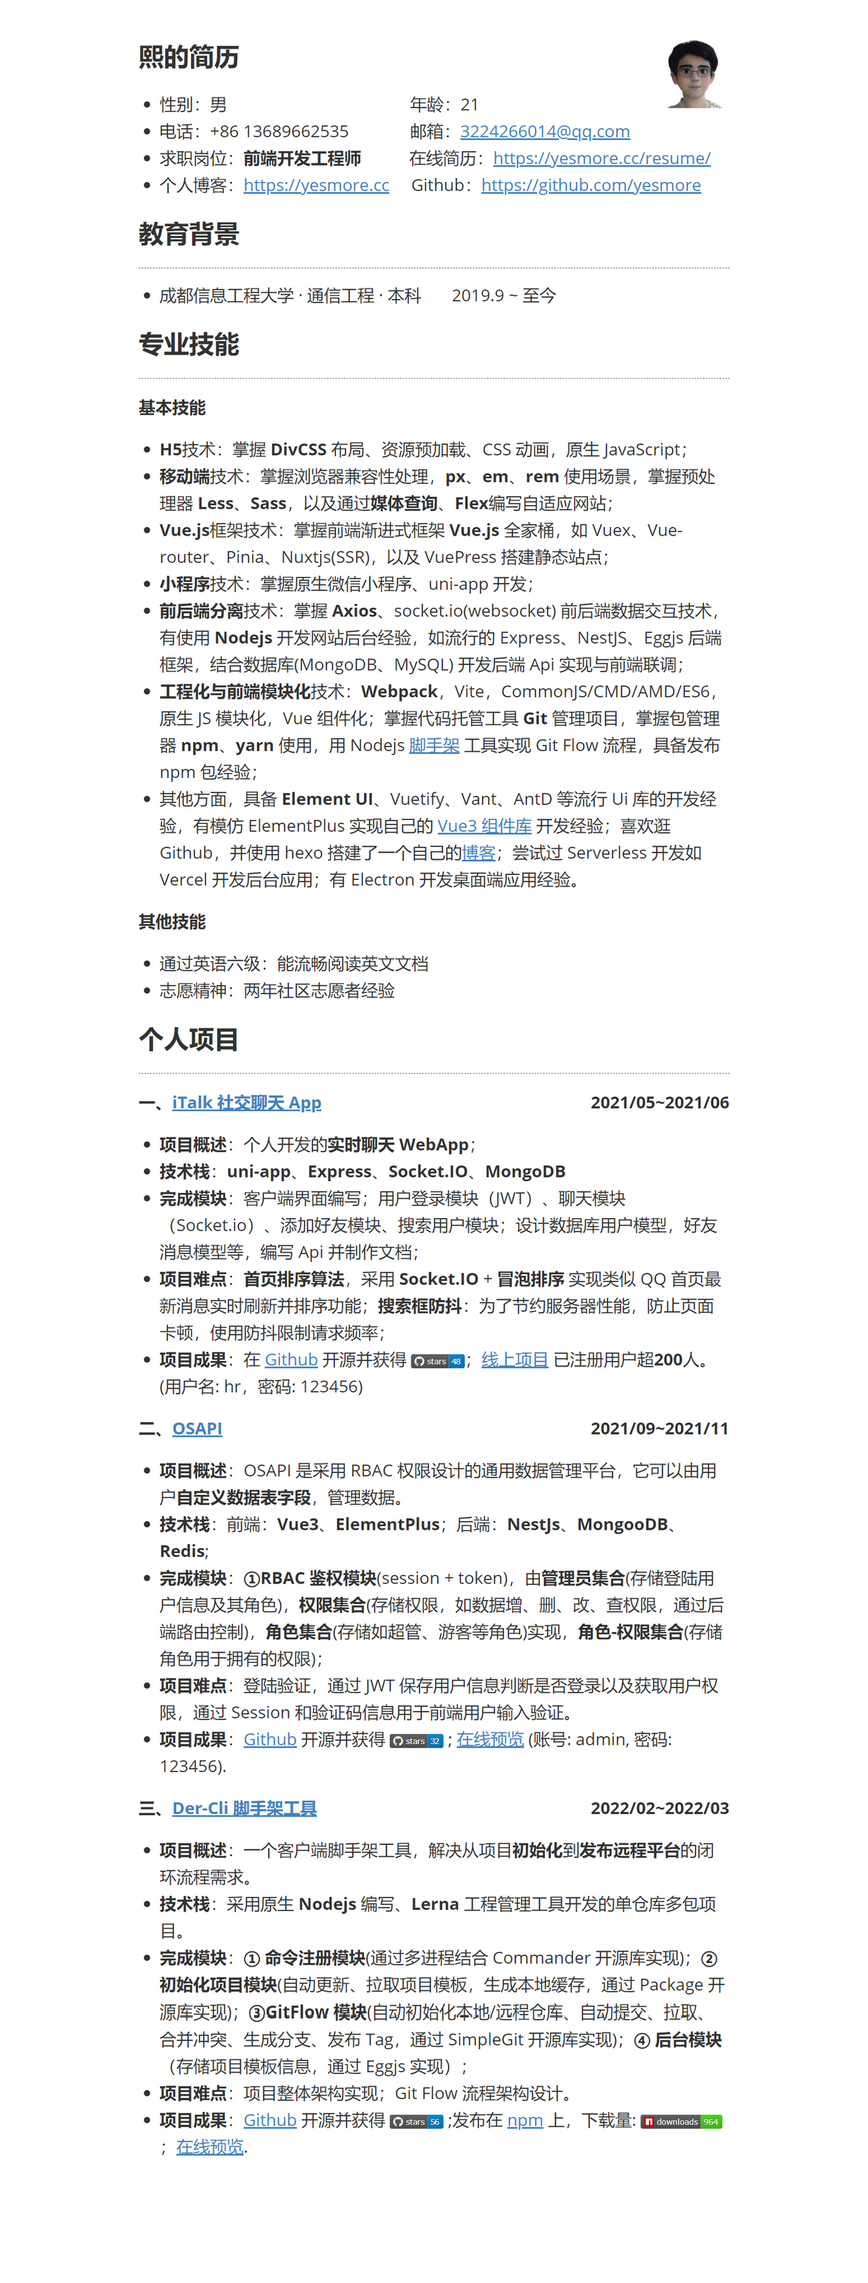
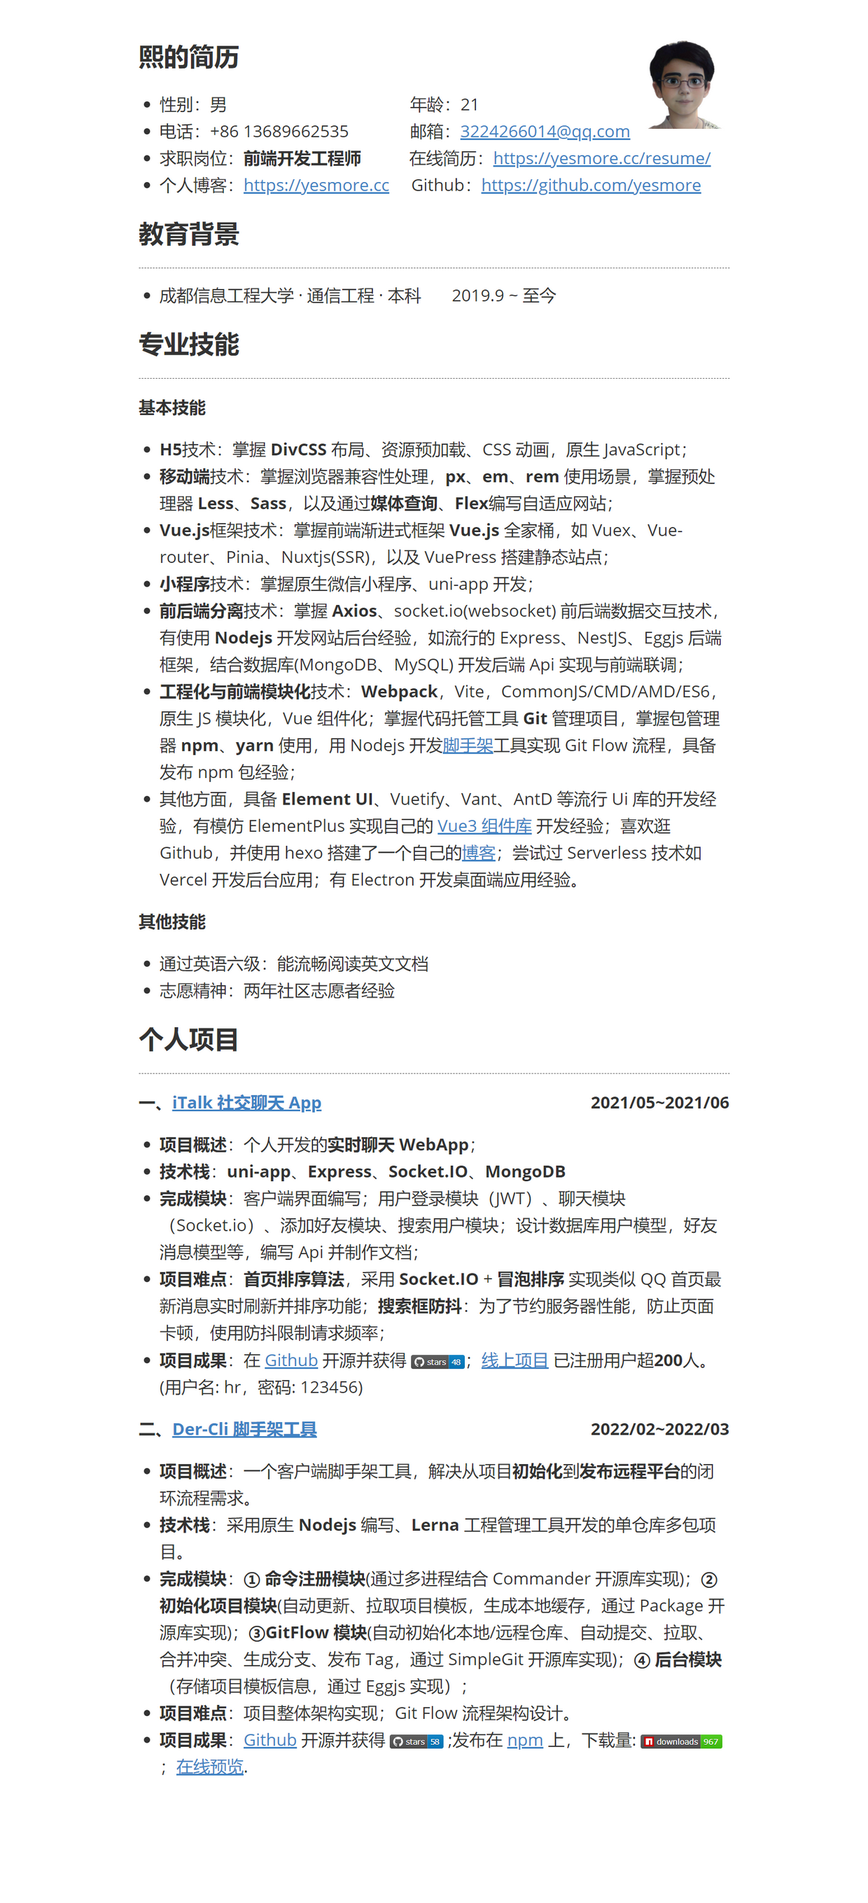
✨feat: 12

Changed region(s): [[0.1532, 0.0, 0.8274, 0.9581], [0.4597, 0.0, 0.8274, 0.1545]]

diff --git a/index.html b/index.html
@@ -593,6 +593,6 @@ header, .context-menu, .megamenu-content, footer{
 </style><title>index</title>
 </head>
 <body class='typora-export os-windows'><div class='typora-export-content'>
-<div id='write'  class=''><h3 id='熙的简历'><span>熙的简历</span><img width='100' style='float:right;' src='https://cdn.jsdelivr.net/gh/yesmore/img/img/avatar.png'></h3><ul><li><span>性别：男                                          年龄：21</span></li><li><span>电话：+86 13689662535              邮箱：</span><a href='mailto:3224266014@qq.com' target='_blank' class='url'>3224266014@qq.com</a></li><li><span>求职岗位：</span><strong><span>前端开发工程师</span></strong><span>           在线简历：</span><a href='https://yesmore.cc/resume/' target='_blank' class='url'>https://yesmore.cc/resume/</a></li><li><span>个人博客：</span><a href='https://yesmore.cc' target='_blank' class='url'>https://yesmore.cc</a><span>     Github：</span><a href='https://github.com/yesmore' target='_blank' class='url'>https://github.com/yesmore</a></li></ul><h3 id='教育背景'><span>教育背景</span></h3><div style="border-bottom: 1px dashed #666666"></div><ul><li><span>成都信息工程大学 · 通信工程 · 本科       2019.9 ~ 至今</span></li></ul><h3 id='专业技能'><span>专业技能</span></h3><div style="border-bottom: 1px dashed #666666"></div><h5 id='基本技能'><span>基本技能</span></h5><ul><li><strong><span>H5</span></strong><span>技术：掌握 </span><strong><span>DivCSS</span></strong><span> 布局、资源预加载、CSS 动画，原生 JavaScript；</span></li><li><strong><span>移动端</span></strong><span>技术：掌握浏览器兼容性处理，</span><strong><span>px</span></strong><span>、</span><strong><span>em</span></strong><span>、</span><strong><span>rem</span></strong><span> 使用场景，掌握预处理器 </span><strong><span>Less</span></strong><span>、</span><strong><span>Sass</span></strong><span>，以及通过</span><strong><span>媒体查询</span></strong><span>、</span><strong><span>Flex</span></strong><span>编写自适应网站；</span></li><li><strong><span>Vue.js</span></strong><span>框架技术：掌握前端渐进式框架 </span><strong><span>Vue.js</span></strong><span> 全家桶，如 Vuex、Vue-router、Pinia、Nuxtjs(SSR)，以及 VuePress 搭建静态站点；</span></li><li><strong><span>小程序</span></strong><span>技术：掌握原生微信小程序、uni-app 开发；</span></li><li><strong><span>前后端分离</span></strong><span>技术：掌握 </span><strong><span>Axios</span></strong><span>、socket.io(websocket) 前后端数据交互技术，有使用 </span><strong><span>Nodejs</span></strong><span> 开发网站后台经验，如流行的 Express、NestJS、Eggjs 后端框架，结合数据库(MongoDB、MySQL) 开发后端 Api 实现与前端联调；</span></li><li><strong><span>工程化与前端模块化</span></strong><span>技术：</span><strong><span>Webpack</span></strong><span>，Vite，CommonJS/CMD/AMD/ES6，原生 JS 模块化，Vue 组件化；掌握代码托管工具 </span><strong><span>Git</span></strong><span> 管理项目，掌握包管理器 </span><strong><span>npm</span></strong><span>、</span><strong><span>yarn</span></strong><span> 使用，用 Nodejs </span><a href='https://github.com/der-cli/der-cli'><span>脚手架</span></a><span> 工具实现 Git Flow 流程，具备发布 npm 包经验；</span></li><li><span>其他方面，具备 </span><strong><span>Element UI</span></strong><span>、Vuetify、Vant、AntD 等流行 Ui 库的开发经验，有模仿 ElementPlus 实现自己的 </span><a href='https://yesmore.cc/Different-UI/'><span>Vue3 组件库</span></a><span> 开发经验；喜欢逛 Github，并使用 hexo 搭建了一个自己的</span><a href='https://yesmore.cc/'><span>博客</span></a><span>；尝试过 Serverless 开发如 Vercel 开发后台应用；有 Electron 开发桌面端应用经验。</span></li></ul><h5 id='其他技能'><span>其他技能</span></h5><ul><li><span>通过英语六级：能流畅阅读英文文档</span></li><li><span>志愿精神：两年社区志愿者经验</span></li></ul><h3 id='个人项目'><span>个人项目</span></h3><div style="border-bottom: 1px dashed #666666"></div><h5 id='一italk-社交聊天-app\n202105202106'><span>一、</span><a href='https://github.com/yesmore/italk-uniapp'><span>iTalk 社交聊天 App</span></a><span style='float:right'><span>2021/05~2021/06</span></span></h5><ul><li><strong><span>项目概述</span></strong><span>：个人开发的</span><strong><span>实时聊天 WebApp</span></strong><span>；</span></li><li><strong><span>技术栈</span></strong><span>：</span><strong><span>uni-app</span></strong><span>、</span><strong><span>Express</span></strong><span>、</span><strong><span>Socket.IO</span></strong><span>、</span><strong><span>MongoDB</span></strong></li><li><strong><span>完成模块</span></strong><span>：客户端界面编写；用户登录模块（JWT）、聊天模块（Socket.io）、添加好友模块、搜索用户模块；设计数据库用户模型，好友消息模型等，编写 Api 并制作文档；</span></li><li><strong><span>项目难点</span></strong><span>：</span><strong><span>首页排序算法</span></strong><span>，采用 </span><strong><span>Socket.IO</span></strong><span> + </span><strong><span>冒泡排序</span></strong><span> 实现类似 QQ 首页最新消息实时刷新并排序功能；</span><strong><span>搜索框防抖</span></strong><span>：为了节约服务器性能，防止页面卡顿，使用防抖限制请求频率；</span></li><li><strong><span>项目成果</span></strong><span>：在 </span><a href='https://github.com/yesmore/italk-uniapp'><span>Github</span></a><span> 开源并获得 </span><img src="https://img.shields.io/github/stars/yesmore/italk-uniapp.svg?logo=github" alt="star"/><span>；</span><a href='http://italk.aoau.top/'><span>线上项目</span></a><span> 已注册用户超</span><strong><span>200</span></strong><span>人。(用户名: hr，密码: 123456)</span></li></ul><h5 id='二osapi-\n202109202111'><span>二、</span><a href='https://github.com/yesmore/OSAPI'><span>OSAPI</span></a><span> </span><span style='float:right'><span>2021/09~2021/11</span></span></h5><ul><li><strong><span>项目概述</span></strong><span>：OSAPI 是采用 RBAC 权限设计的通用数据管理平台，它可以由用户</span><strong><span>自定义数据表字段</span></strong><span>，管理数据。</span></li><li><strong><span>技术栈</span></strong><span>：前端：</span><strong><span>Vue3</span></strong><span>、</span><strong><span>ElementPlus</span></strong><span>；后端：</span><strong><span>NestJs</span></strong><span>、</span><strong><span>MongooDB</span></strong><span>、</span><strong><span>Redis</span></strong><span>;</span></li><li><strong><span>完成模块</span></strong><span>：</span><strong><span>①RBAC 鉴权模块</span></strong><span>(session + token)，由</span><strong><span>管理员集合</span></strong><span>(存储登陆用户信息及其角色)，</span><strong><span>权限集合</span></strong><span>(存储权限，如数据增、删、改、查权限，通过后端路由控制)，</span><strong><span>角色集合</span></strong><span>(存储如超管、游客等角色)实现，</span><strong><span>角色-权限集合</span></strong><span>(存储角色用于拥有的权限)；</span></li><li><strong><span>项目难点</span></strong><span>：登陆验证，通过 JWT 保存用户信息判断是否登录以及获取用户权限，通过 Session 和验证码信息用于前端用户输入验证。</span></li><li><strong><span>项目成果</span></strong><span>：</span><a href='https://github.com/yesmore/OSAPI'><span>Github</span></a><span> 开源并获得 </span><img src="https://img.shields.io/github/stars/yesmore/OSAPI.svg?logo=github" alt="star"/><span> ; </span><a href='http://osapi.aoau.top/'><span>在线预览</span></a><span> (账号: admin, 密码: 123456).</span></li></ul><h5 id='三der-cli-脚手架工具-\n202202202203'><span>三、</span><a href='https://der-cli.vercel.app/'><span>Der-Cli 脚手架工具</span></a><span> </span><span style='float:right'><span>2022/02~2022/03</span></span></h5><ul><li><strong><span>项目概述</span></strong><span>：一个客户端脚手架工具，解决从项目</span><strong><span>初始化</span></strong><span>到</span><strong><span>发布远程平台</span></strong><span>的闭环流程需求。</span></li><li><strong><span>技术栈</span></strong><span>：采用原生 </span><strong><span>Nodejs</span></strong><span> 编写、</span><strong><span>Lerna</span></strong><span> 工程管理工具开发的单仓库多包项目。</span></li><li><strong><span>完成模块</span></strong><span>：</span><strong><span>① 命令注册模块</span></strong><span>(通过多进程结合 Commander 开源库实现)；</span><strong><span>② 初始化项目模块</span></strong><span>(自动更新、拉取项目模板，生成本地缓存，通过 Package 开源库实现)；</span><strong><span>③GitFlow 模块</span></strong><span>(自动初始化本地/远程仓库、自动提交、拉取、合并冲突、生成分支、发布 Tag，通过 SimpleGit 开源库实现)；</span><strong><span>④ 后台模块</span></strong><span>（存储项目模板信息，通过 Eggjs 实现）；</span></li><li><strong><span>项目难点</span></strong><span>：项目整体架构实现；Git Flow 流程架构设计。</span></li><li><strong><span>项目成果</span></strong><span>：</span><a href='https://github.com/der-cli/der-cli'><span>Github</span></a><span> 开源并获得 </span><img src="https://img.shields.io/github/stars/der-cli/der-cli.svg?logo=github" alt="star"/><span> ;发布在 </span><a href='https://www.npmjs.com/package/@der-cli/core'><span>npm</span></a><span> 上，下载量: </span><img src="https://img.shields.io/npm/dt/@der-cli/core?logo=npm"><span>；</span><a href='https://der-cli.vercel.app/'><span>在线预览</span></a><span>.</span></li></ul><p>&nbsp;</p></div></div>
+<div id='write'  class=''><h3 id='熙的简历'><span>熙的简历</span><img width='130' style='float:right;' src='https://cdn.jsdelivr.net/gh/yesmore/img/img/avatar.png'></h3><ul><li><span>性别：男                                          年龄：21</span></li><li><span>电话：+86 13689662535              邮箱：</span><a href='mailto:3224266014@qq.com' target='_blank' class='url'>3224266014@qq.com</a></li><li><span>求职岗位：</span><strong><span>前端开发工程师</span></strong><span>           在线简历：</span><a href='https://yesmore.cc/resume/' target='_blank' class='url'>https://yesmore.cc/resume/</a></li><li><span>个人博客：</span><a href='https://yesmore.cc' target='_blank' class='url'>https://yesmore.cc</a><span>     Github：</span><a href='https://github.com/yesmore' target='_blank' class='url'>https://github.com/yesmore</a></li></ul><h3 id='教育背景'><span>教育背景</span></h3><div style="border-bottom: 1px dashed #666666"></div><ul><li><span>成都信息工程大学 · 通信工程 · 本科       2019.9 ~ 至今</span></li></ul><h3 id='专业技能'><span>专业技能</span></h3><div style="border-bottom: 1px dashed #666666"></div><h5 id='基本技能'><span>基本技能</span></h5><ul><li><strong><span>H5</span></strong><span>技术：掌握 </span><strong><span>DivCSS</span></strong><span> 布局、资源预加载、CSS 动画，原生 JavaScript；</span></li><li><strong><span>移动端</span></strong><span>技术：掌握浏览器兼容性处理，</span><strong><span>px</span></strong><span>、</span><strong><span>em</span></strong><span>、</span><strong><span>rem</span></strong><span> 使用场景，掌握预处理器 </span><strong><span>Less</span></strong><span>、</span><strong><span>Sass</span></strong><span>，以及通过</span><strong><span>媒体查询</span></strong><span>、</span><strong><span>Flex</span></strong><span>编写自适应网站；</span></li><li><strong><span>Vue.js</span></strong><span>框架技术：掌握前端渐进式框架 </span><strong><span>Vue.js</span></strong><span> 全家桶，如 Vuex、Vue-router、Pinia、Nuxtjs(SSR)，以及 VuePress 搭建静态站点；</span></li><li><strong><span>小程序</span></strong><span>技术：掌握原生微信小程序、uni-app 开发；</span></li><li><strong><span>前后端分离</span></strong><span>技术：掌握 </span><strong><span>Axios</span></strong><span>、socket.io(websocket) 前后端数据交互技术，有使用 </span><strong><span>Nodejs</span></strong><span> 开发网站后台经验，如流行的 Express、NestJS、Eggjs 后端框架，结合数据库(MongoDB、MySQL) 开发后端 Api 实现与前端联调；</span></li><li><strong><span>工程化与前端模块化</span></strong><span>技术：</span><strong><span>Webpack</span></strong><span>，Vite，CommonJS/CMD/AMD/ES6，原生 JS 模块化，Vue 组件化；掌握代码托管工具 </span><strong><span>Git</span></strong><span> 管理项目，掌握包管理器 </span><strong><span>npm</span></strong><span>、</span><strong><span>yarn</span></strong><span> 使用，用 Nodejs 开发</span><a href='https://github.com/der-cli/der-cli'><span>脚手架</span></a><span>工具实现 Git Flow 流程，具备发布 npm 包经验；</span></li><li><span>其他方面，具备 </span><strong><span>Element UI</span></strong><span>、Vuetify、Vant、AntD 等流行 Ui 库的开发经验，有模仿 ElementPlus 实现自己的 </span><a href='https://yesmore.cc/Different-UI/'><span>Vue3 组件库</span></a><span> 开发经验；喜欢逛 Github，并使用 hexo 搭建了一个自己的</span><a href='https://yesmore.cc/'><span>博客</span></a><span>；尝试过 Serverless 技术如 Vercel 开发后台应用；有 Electron 开发桌面端应用经验。</span></li></ul><h5 id='其他技能'><span>其他技能</span></h5><ul><li><span>通过英语六级：能流畅阅读英文文档</span></li><li><span>志愿精神：两年社区志愿者经验</span></li></ul><h3 id='个人项目'><span>个人项目</span></h3><div style="border-bottom: 1px dashed #666666"></div><h5 id='一italk-社交聊天-app\n202105202106'><span>一、</span><a href='https://github.com/yesmore/italk-uniapp'><span>iTalk 社交聊天 App</span></a><span style='float:right'><span>2021/05~2021/06</span></span></h5><ul><li><strong><span>项目概述</span></strong><span>：个人开发的</span><strong><span>实时聊天 WebApp</span></strong><span>；</span></li><li><strong><span>技术栈</span></strong><span>：</span><strong><span>uni-app</span></strong><span>、</span><strong><span>Express</span></strong><span>、</span><strong><span>Socket.IO</span></strong><span>、</span><strong><span>MongoDB</span></strong></li><li><strong><span>完成模块</span></strong><span>：客户端界面编写；用户登录模块（JWT）、聊天模块（Socket.io）、添加好友模块、搜索用户模块；设计数据库用户模型，好友消息模型等，编写 Api 并制作文档；</span></li><li><strong><span>项目难点</span></strong><span>：</span><strong><span>首页排序算法</span></strong><span>，采用 </span><strong><span>Socket.IO</span></strong><span> + </span><strong><span>冒泡排序</span></strong><span> 实现类似 QQ 首页最新消息实时刷新并排序功能；</span><strong><span>搜索框防抖</span></strong><span>：为了节约服务器性能，防止页面卡顿，使用防抖限制请求频率；</span></li><li><strong><span>项目成果</span></strong><span>：在 </span><a href='https://github.com/yesmore/italk-uniapp'><span>Github</span></a><span> 开源并获得 </span><img src="https://img.shields.io/github/stars/yesmore/italk-uniapp.svg?logo=github" alt="star"/><span>；</span><a href='http://italk.aoau.top/'><span>线上项目</span></a><span> 已注册用户超</span><strong><span>200</span></strong><span>人。(用户名: hr，密码: 123456)</span></li></ul><h5 id='二der-cli-脚手架工具-\n202202202203'><span>二、</span><a href='https://der-cli.vercel.app/'><span>Der-Cli 脚手架工具</span></a><span> </span><span style='float:right'><span>2022/02~2022/03</span></span></h5><ul><li><strong><span>项目概述</span></strong><span>：一个客户端脚手架工具，解决从项目</span><strong><span>初始化</span></strong><span>到</span><strong><span>发布远程平台</span></strong><span>的闭环流程需求。</span></li><li><strong><span>技术栈</span></strong><span>：采用原生 </span><strong><span>Nodejs</span></strong><span> 编写、</span><strong><span>Lerna</span></strong><span> 工程管理工具开发的单仓库多包项目。</span></li><li><strong><span>完成模块</span></strong><span>：</span><strong><span>① 命令注册模块</span></strong><span>(通过多进程结合 Commander 开源库实现)；</span><strong><span>② 初始化项目模块</span></strong><span>(自动更新、拉取项目模板，生成本地缓存，通过 Package 开源库实现)；</span><strong><span>③GitFlow 模块</span></strong><span>(自动初始化本地/远程仓库、自动提交、拉取、合并冲突、生成分支、发布 Tag，通过 SimpleGit 开源库实现)；</span><strong><span>④ 后台模块</span></strong><span>（存储项目模板信息，通过 Eggjs 实现）；</span></li><li><strong><span>项目难点</span></strong><span>：项目整体架构实现；Git Flow 流程架构设计。</span></li><li><strong><span>项目成果</span></strong><span>：</span><a href='https://github.com/der-cli/der-cli'><span>Github</span></a><span> 开源并获得 </span><img src="https://img.shields.io/github/stars/der-cli/der-cli.svg?logo=github" alt="star"/><span> ;发布在 </span><a href='https://www.npmjs.com/package/@der-cli/core'><span>npm</span></a><span> 上，下载量: </span><img src="https://img.shields.io/npm/dt/@der-cli/core?logo=npm"><span>；</span><a href='https://der-cli.vercel.app/'><span>在线预览</span></a><span>.</span></li></ul><p>&nbsp;</p></div></div>
 </body>
 </html>

diff --git a/index.md b/index.md
@@ -22,8 +22,8 @@
 - **Vue.js**框架技术：掌握前端渐进式框架 **Vue.js** 全家桶，如 Vuex、Vue-router、Pinia、Nuxtjs(SSR)，以及 VuePress 搭建静态站点；
 - **小程序**技术：掌握原生微信小程序、uni-app 开发；
 - **前后端分离**技术：掌握 **Axios**、socket.io(websocket) 前后端数据交互技术，有使用 **Nodejs** 开发网站后台经验，如流行的 Express、NestJS、Eggjs 后端框架，结合数据库(MongoDB、MySQL) 开发后端 Api 实现与前端联调；
-- **工程化与前端模块化**技术：**Webpack**，Vite，CommonJS/CMD/AMD/ES6，原生 JS 模块化，Vue 组件化；掌握代码托管工具 **Git** 管理项目，掌握包管理器 **npm**、**yarn** 使用，用 Nodejs [脚手架](https://github.com/der-cli/der-cli) 工具实现 Git Flow 流程，具备发布 npm 包经验；
-- 其他方面，具备 **Element UI**、Vuetify、Vant、AntD 等流行 Ui 库的开发经验，有模仿 ElementPlus 实现自己的 [Vue3 组件库](https://yesmore.cc/Different-UI/) 开发经验；喜欢逛 Github，并使用 hexo 搭建了一个自己的[博客](https://yesmore.cc/)；尝试过 Serverless 开发如 Vercel 开发后台应用；有 Electron 开发桌面端应用经验。
+- **工程化与前端模块化**技术：**Webpack**，Vite，CommonJS/CMD/AMD/ES6，原生 JS 模块化，Vue 组件化；掌握代码托管工具 **Git** 管理项目，掌握包管理器 **npm**、**yarn** 使用，用 Nodejs 开发[脚手架](https://github.com/der-cli/der-cli)工具实现 Git Flow 流程，具备发布 npm 包经验；
+- 其他方面，具备 **Element UI**、Vuetify、Vant、AntD 等流行 Ui 库的开发经验，有模仿 ElementPlus 实现自己的 [Vue3 组件库](https://yesmore.cc/Different-UI/) 开发经验；喜欢逛 Github，并使用 hexo 搭建了一个自己的[博客](https://yesmore.cc/)；尝试过 Serverless 技术如 Vercel 开发后台应用；有 Electron 开发桌面端应用经验。
 
 ##### 其他技能
 
@@ -42,15 +42,7 @@
 - **项目难点**：**首页排序算法**，采用 **Socket.IO** + **冒泡排序** 实现类似 QQ 首页最新消息实时刷新并排序功能；**搜索框防抖**：为了节约服务器性能，防止页面卡顿，使用防抖限制请求频率；
 - **项目成果**：在 [Github](https://github.com/yesmore/italk-uniapp) 开源并获得 <img src="https://img.shields.io/github/stars/yesmore/italk-uniapp.svg?logo=github" alt="star"/>；[线上项目](http://italk.aoau.top/) 已注册用户超**200**人。(用户名: hr，密码: 123456)
 
-##### 二、[OSAPI](https://github.com/yesmore/OSAPI) <span style='float:right'>2021/09~2021/11</span>
-
-- **项目概述**：OSAPI 是采用 RBAC 权限设计的通用数据管理平台，它可以由用户**自定义数据表字段**，管理数据。
-- **技术栈**：前端：**Vue3**、**ElementPlus**；后端：**NestJs**、**MongooDB**、**Redis**;
-- **完成模块**：**①RBAC 鉴权模块**(session + token)，由**管理员集合**(存储登陆用户信息及其角色)，**权限集合**(存储权限，如数据增、删、改、查权限，通过后端路由控制)，**角色集合**(存储如超管、游客等角色)实现，**角色-权限集合**(存储角色用于拥有的权限)；
-- **项目难点**：登陆验证，通过 JWT 保存用户信息判断是否登录以及获取用户权限，通过 Session 和验证码信息用于前端用户输入验证。
-- **项目成果**：[Github](https://github.com/yesmore/OSAPI) 开源并获得 <img src="https://img.shields.io/github/stars/yesmore/OSAPI.svg?logo=github" alt="star"/> ; [在线预览](http://osapi.aoau.top/) (账号: admin, 密码: 123456).
-
-##### 三、[Der-Cli 脚手架工具](https://der-cli.vercel.app/) <span style='float:right'>2022/02~2022/03</span>
+##### 二、[Der-Cli 脚手架工具](https://der-cli.vercel.app/) <span style='float:right'>2022/02~2022/03</span>
 
 - **项目概述**：一个客户端脚手架工具，解决从项目**初始化**到**发布远程平台**的闭环流程需求。
 - **技术栈**：采用原生 **Nodejs** 编写、**Lerna** 工程管理工具开发的单仓库多包项目。
